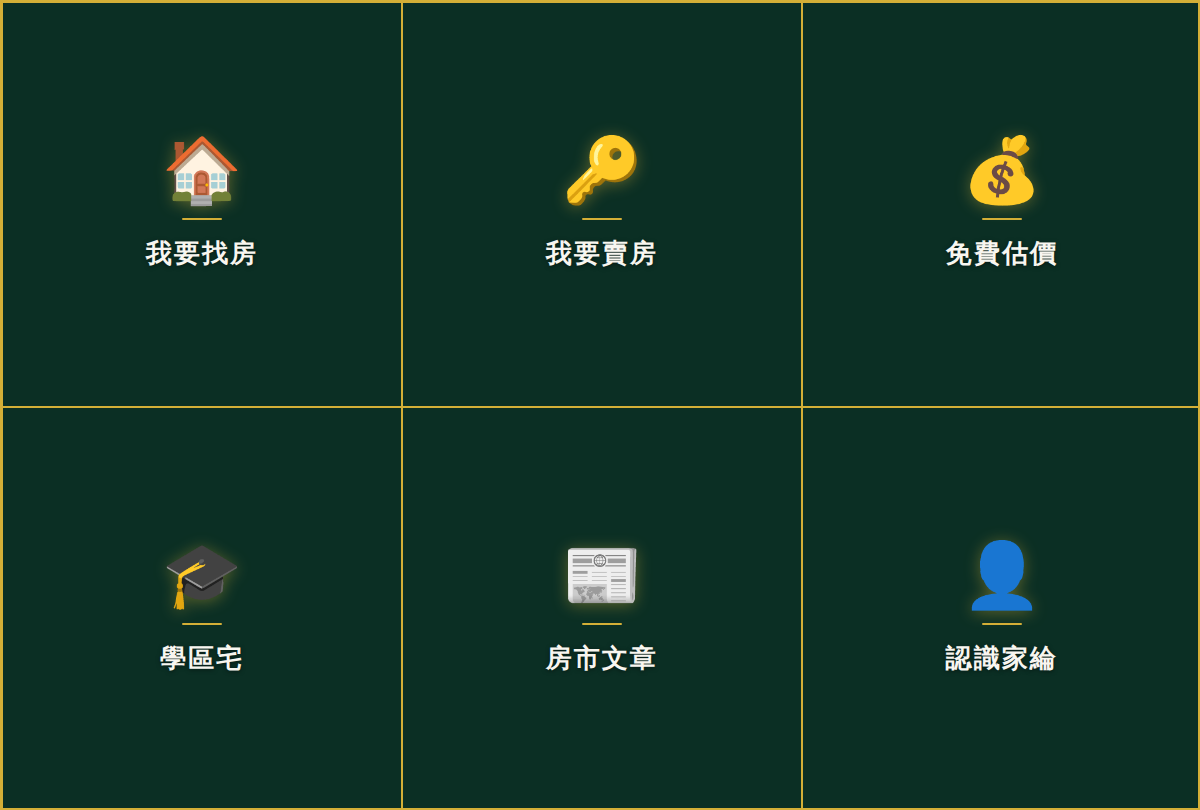
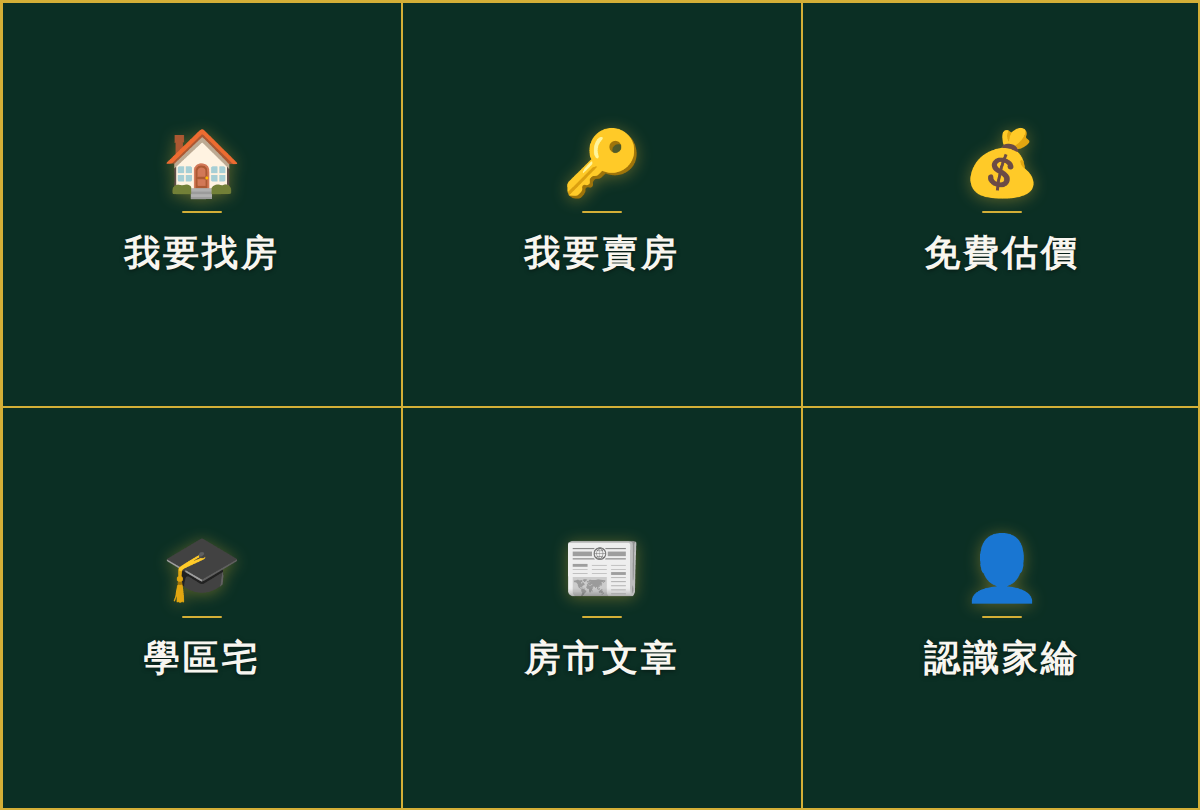
feat: Rich Menu 字體放大至 36px
Claude-Session: https://claude.ai/code/session_01Cd5EgKSvNz8oJ9yMFLjrzW

diff --git a/line/generate-rich-menu-image.js b/line/generate-rich-menu-image.js
@@ -46,7 +46,7 @@ const HTML = `<!DOCTYPE html>
   }
   .label {
     color: #F8F6F0;
-    font-size: 26px;
+    font-size: 36px;
     font-weight: 700;
     letter-spacing: 0.08em;
     text-shadow: 0 1px 4px rgba(0,0,0,0.5);